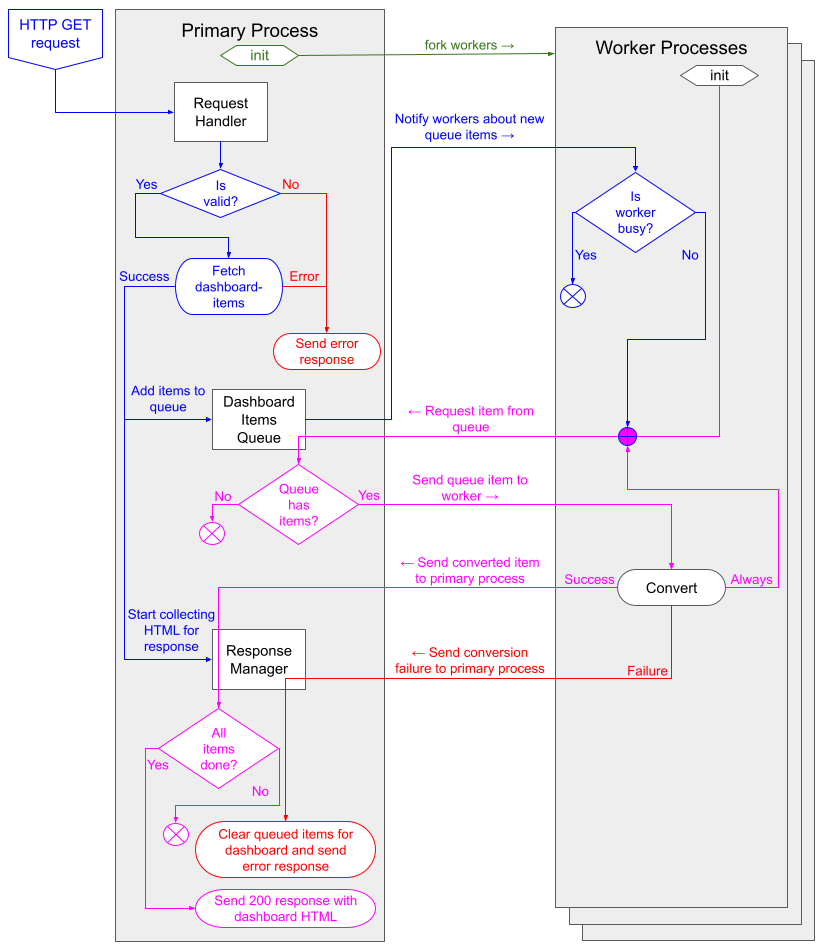
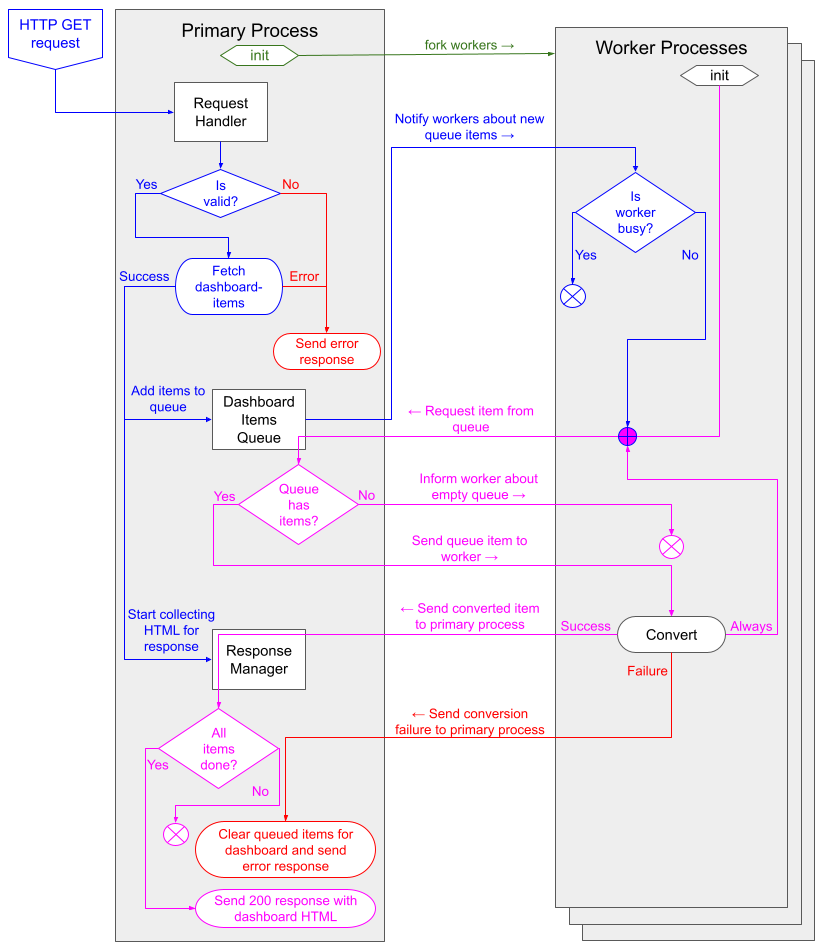
fix: prevent worker from requesting a new item while still awaiting a previous item

diff --git a/src/WorkerProcess/WorkerProcess.ts b/src/WorkerProcess/WorkerProcess.ts
@@ -29,6 +29,7 @@ export class WorkerProcess {
     #converter: IDashboardItemConverter
     #authenticator: IAuthenticator
     #configCache: IScrapeConfigCache
+    #hasPendingItemRequest: boolean
 
     protected constructor(
         converter: IDashboardItemConverter,
@@ -40,10 +41,11 @@ export class WorkerProcess {
         this.#configCache = configCache
         this.#messageHandler = new WorkerProcessMessageHandler({
             onItemsAddedToQueue: this.#handleItemsAddedToQueue.bind(this),
-            onItemTakenFromQueue: this.#handleItemTakenFromQueue.bind(this),
+            onResponseToItemRequest: this.#handleResponseToItemRequest.bind(this),
         })
+        this.#hasPendingItemRequest = false
         // See if there is work to do
-        this.#messageHandler.requestDashboardItemFromQueue()
+        this.#requestDashboardItemFromQueue()
     }
 
     static async create(env: PushAnalyticsEnvVariables, debug: boolean) {
@@ -55,15 +57,30 @@ export class WorkerProcess {
         return new WorkerProcess(converter, authenticator, configCache)
     }
 
+    #requestDashboardItemFromQueue() {
+        this.#hasPendingItemRequest = true
+        this.#messageHandler.requestDashboardItemFromQueue()
+    }
+
+    #isBusy() {
+        return this.#converter.isConverting() || this.#hasPendingItemRequest
+    }
+
     #handleItemsAddedToQueue() {
-        // Ignore this event if still converting
-        if (!this.#converter.isConverting()) {
-            this.#messageHandler.requestDashboardItemFromQueue()
+        // Ignore this event if working/waiting
+        if (!this.#isBusy()) {
+            this.#requestDashboardItemFromQueue()
         }
     }
 
-    async #handleItemTakenFromQueue(queueItem: QueueItem) {
-        if (this.#converter.isConverting()) {
+    async #handleResponseToItemRequest(queueItem: QueueItem | undefined) {
+        this.#hasPendingItemRequest = false
+
+        if (!queueItem) {
+            return
+        }
+
+        if (this.#isBusy()) {
             throw new WorkerProcessError(
                 'Received a queueItem while converting, this should not happen'
             )
@@ -108,7 +125,7 @@ export class WorkerProcess {
             this.#messageHandler.sendItemConversionErrorToPrimaryProcess(conversionError)
         } finally {
             // See if there is more work to do
-            this.#messageHandler.requestDashboardItemFromQueue()
+            this.#requestDashboardItemFromQueue()
         }
     }
 }

diff --git a/src/WorkerProcess/WorkerProcessMessageHandler.ts b/src/WorkerProcess/WorkerProcessMessageHandler.ts
@@ -14,7 +14,7 @@ type OnItemsAddedToQueueFn = () => void
 type OnItemTakenFromQueueFn = (queueItem: QueueItem) => void
 type WorkerProcessMessageHandlerOptions = {
     onItemsAddedToQueue: OnItemsAddedToQueueFn
-    onItemTakenFromQueue: OnItemTakenFromQueueFn
+    onResponseToItemRequest: OnItemTakenFromQueueFn
 }
 
 class WorkerProcessMessageHandlerError extends PushAnalyticsError {
@@ -29,14 +29,14 @@ class WorkerProcessMessageHandlerError extends PushAnalyticsError {
 
 export class WorkerProcessMessageHandler {
     #onItemsAddedToQueue
-    #onItemTakenFromQueue
+    #onResponseToItemRequest
 
     constructor({
         onItemsAddedToQueue,
-        onItemTakenFromQueue,
+        onResponseToItemRequest,
     }: WorkerProcessMessageHandlerOptions) {
         this.#onItemsAddedToQueue = onItemsAddedToQueue
-        this.#onItemTakenFromQueue = onItemTakenFromQueue
+        this.#onResponseToItemRequest = onResponseToItemRequest
         process.on('message', this.#handlePrimaryProcessMessage.bind(this))
     }
 
@@ -84,7 +84,7 @@ export class WorkerProcessMessageHandler {
             case 'ITEMS_ADDED_TO_QUEUE':
                 return this.#onItemsAddedToQueue()
             case 'ITEM_TAKEN_FROM_QUEUE':
-                return this.#onItemTakenFromQueue(message.payload as QueueItem)
+                return this.#onResponseToItemRequest(message.payload as QueueItem)
             default:
                 throw new WorkerProcessMessageHandlerError(
                     'Received unknown message from primary process'

diff --git a/src/Cluster/integration/dashboardRequestError.test.ts b/src/Cluster/integration/dashboardRequestError.test.ts
@@ -7,9 +7,12 @@ import {
     initializeMockCluster,
     getDashboardFixturesArray,
     getHttpServer,
-    awaitAnyMessageUntilExpiry,
+    awaitMessageCount,
 } from './utils'
-import type { WorkerProcessEmittedMessage } from '../../types'
+import type {
+    PrimaryProcessEmittedMessage,
+    WorkerProcessEmittedMessage,
+} from '../../types'
 import { tearDownCluster } from './utils/tearDownCluster'
 
 describe('An error on the dashboard request', { concurrency: 1 }, async () => {
@@ -60,9 +63,14 @@ describe('An error on the dashboard request', { concurrency: 1 }, async () => {
         })
     } else {
         test('the worker process does not receive any messages', async () => {
-            // If no messages received in the first 100ms, assume they will never arrive
-            const message = await awaitAnyMessageUntilExpiry(100)
-            assert.strictEqual(message, null)
+            /* The main worker always replies when a worker requests a dashboard
+             * item. If the queue is empty, so is the payload. */
+            const expectedMessage = { type: 'ITEM_TAKEN_FROM_QUEUE' }
+            const messagesFromPrimaryProcess: PrimaryProcessEmittedMessage[] =
+                await awaitMessageCount(1)
+
+            assert.strictEqual(messagesFromPrimaryProcess.length, 1)
+            assert.deepEqual(messagesFromPrimaryProcess[0], expectedMessage)
         })
     }
 })

diff --git a/src/PrimaryProcess/RequestHandler.ts b/src/PrimaryProcess/RequestHandler.ts
@@ -36,6 +36,9 @@ export class RequestHandler {
 
         try {
             dashboardDetails = await this.#getDashboardDetails(request)
+            console.log(
+                `Received conversion request for dasboardId "${dashboardDetails.dashboardId}" and username "${dashboardDetails.username}"`
+            )
         } catch (error) {
             /* Note that this is failing before the dashboard (items)
              * are queued, so we can just send an error from here */
@@ -53,9 +56,7 @@ export class RequestHandler {
         }
     }
 
-    async #getDashboardDetails(
-        request: IncomingMessage
-    ): Promise<DashboardDetails | undefined> {
+    async #getDashboardDetails(request: IncomingMessage): Promise<DashboardDetails> {
         validateRequest(request, this.#env.baseUrl)
 
         const { dashboardId, username } = parseQueryString(request.url, this.#env.baseUrl)

diff --git a/src/PrimaryProcess/PrimaryProcess.ts b/src/PrimaryProcess/PrimaryProcess.ts
@@ -93,11 +93,12 @@ export class PrimaryProcess {
     }
 
     #handleWorkerItemRequest(workerId: number) {
-        // Ignore the request if queue is empty
-        if (this.#dashboardItemsQueue.hasQueuedItems()) {
-            const queueItem: QueueItem = this.#dashboardItemsQueue.takeItemFromQueue()
-            this.#messageHandler.sendQueueItemToWorker(workerId, queueItem)
-        }
+        // Awlways reply to the worker, it won't request more work until a reply comes in
+        const queueItem: QueueItem | undefined =
+            this.#dashboardItemsQueue.hasQueuedItems()
+                ? this.#dashboardItemsQueue.takeItemFromQueue()
+                : undefined
+        this.#messageHandler.sendQueueItemToWorker(workerId, queueItem)
     }
 
     #handleWorkerConversionSuccess(convertedItem: ConvertedItemPayload) {

diff --git a/src/PrimaryProcess/PrimaryProcessMessageHandler.ts b/src/PrimaryProcess/PrimaryProcessMessageHandler.ts
@@ -74,7 +74,7 @@ export class PrimaryProcessMessageHandler {
         }
     }
 
-    sendQueueItemToWorker(workerId: number, queueItem: QueueItem) {
+    sendQueueItemToWorker(workerId: number, queueItem?: QueueItem) {
         const worker = this.clusterWorkers[workerId]
 
         if (!worker) {
